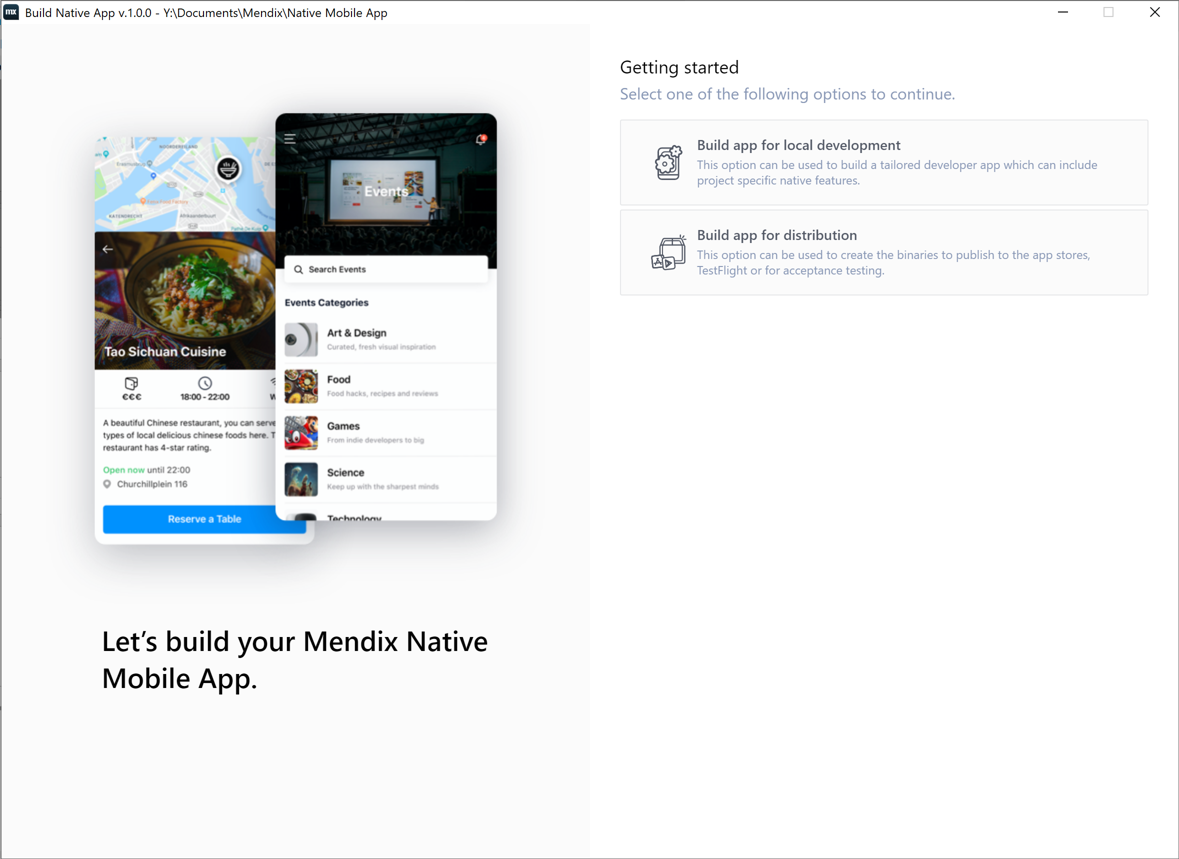
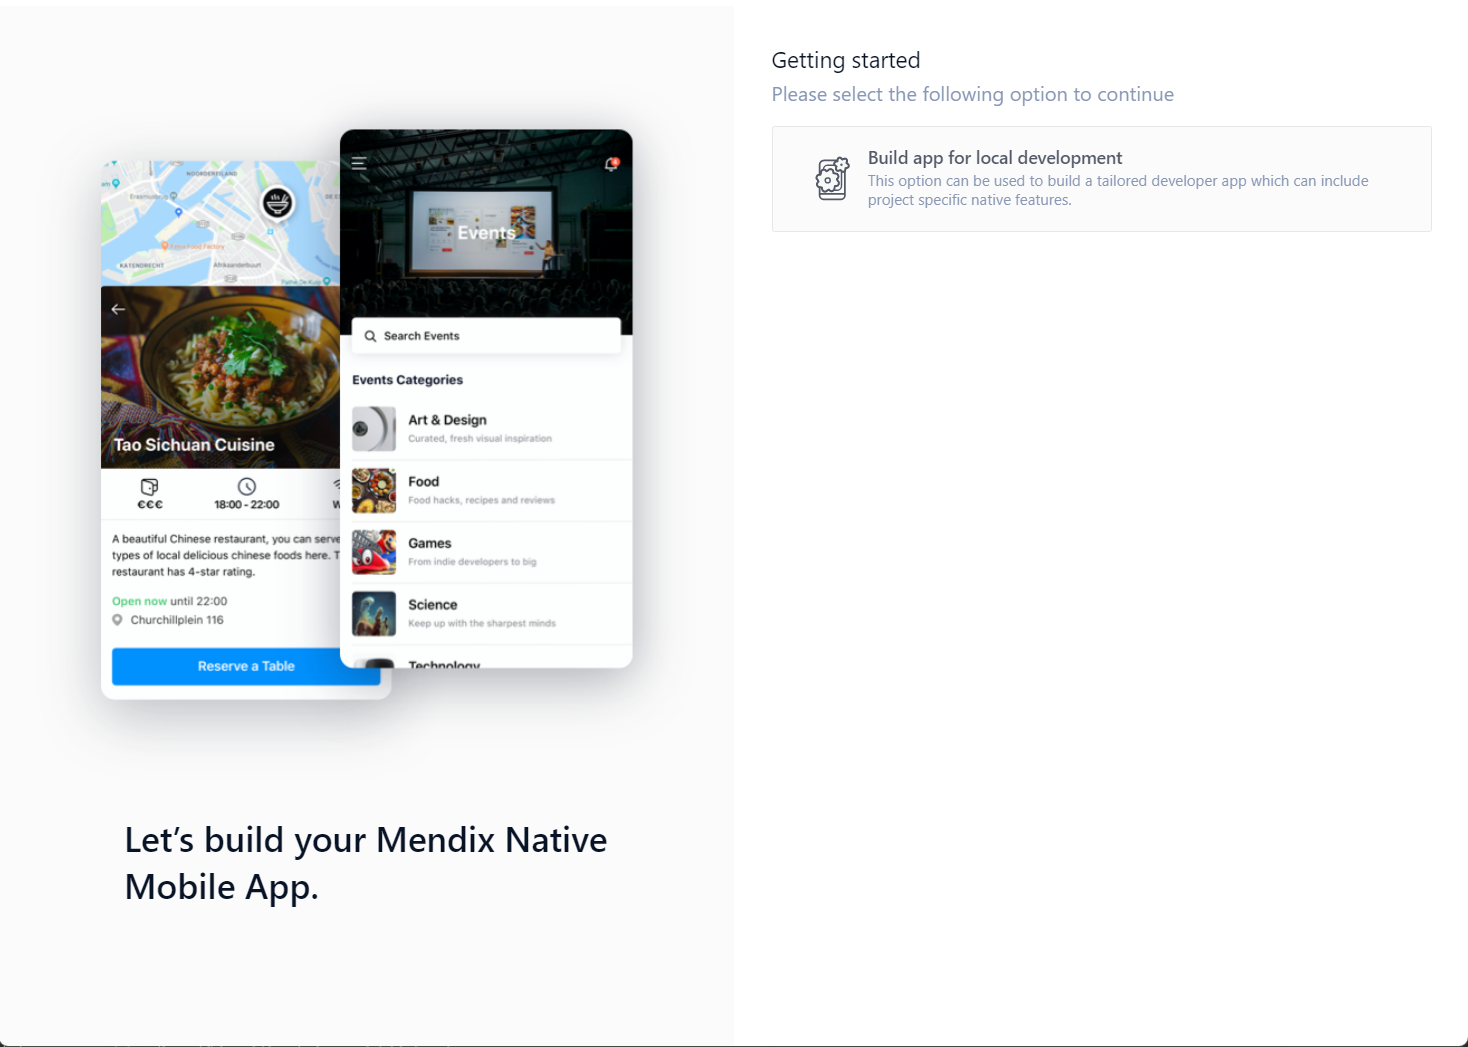
Update docs for building locally and OTA usage

diff --git a/content/en/docs/refguide10/mobile/distributing-mobile-apps/overtheair-updates.md b/content/en/docs/refguide10/mobile/distributing-mobile-apps/overtheair-updates.md
@@ -61,7 +61,7 @@ OTA updates are useful in the following app development cases:
 * Style changes
 * Static image, text, or other static asset changes
 * Layout changes
-* Nanoflow changes
+* Adding/Edditing Nanoflow or Microflow
 * JavaScript action changes
 * Widgets added or removed
 * You added a new custom JavaScript-only widget or module 
@@ -77,7 +77,6 @@ If you have made any changes directly to your iOS or Android app, you will have 
 * You fundamentally changed your app's functionality (this is an Apple App Store limitation, and will require a re-release and re-review of your app by Apple—your app might be removed if you do not comply)
 * A new native module has been added (such as the [Native Mobile AR](https://marketplace.mendix.com/link/component/117209) module — for more information see [Modules](/refguide10/modules/)
 * The app has been renamed
-* You added a new microflow or nanoflow
 * The app's launcher icons have been changed
 * The splash screen has been changed
 * The native template was updated (NT patch updates also require a full release)

diff --git a/content/en/docs/refguide/mobile/distributing-mobile-apps/overtheair-updates.md b/content/en/docs/refguide/mobile/distributing-mobile-apps/overtheair-updates.md
@@ -61,7 +61,7 @@ OTA updates are useful in the following app development cases:
 * Style changes
 * Static image, text, or other static asset changes
 * Layout changes
-* Nanoflow changes
+* Adding/Edditing Nanoflow or Microflow
 * JavaScript action changes
 * Widgets added or removed
 * You added a new custom JavaScript-only widget or module 
@@ -77,7 +77,6 @@ If you have made any changes directly to your iOS or Android app, you will have 
 * You fundamentally changed your app's functionality (this is an Apple App Store limitation, and will require a re-release and re-review of your app by Apple—your app might be removed if you do not comply)
 * A new native module has been added (such as the [Native Mobile AR](https://marketplace.mendix.com/link/component/117209) module — for more information see [Modules](/refguide/modules/)
 * The app has been renamed
-* You added a new microflow or nanoflow
 * The app's launcher icons have been changed
 * The splash screen has been changed
 * The native template was updated (NT patch updates also require a full release)

diff --git a/content/en/docs/refguide9/mobile/distributing-mobile-apps/overtheair-updates.md b/content/en/docs/refguide9/mobile/distributing-mobile-apps/overtheair-updates.md
@@ -61,7 +61,7 @@ OTA updates are useful in the following app development cases:
 * Style changes
 * Static image, text, or other static asset changes
 * Layout changes
-* Nanoflow changes
+* Adding/Edditing Nanoflow or Microflow
 * JavaScript action changes
 * Widgets added or removed
 * You added a new custom JavaScript-only widget or module 
@@ -77,7 +77,6 @@ If you have made any changes directly to your iOS or Android app, you will have 
 * You fundamentally changed your app's functionality (this is an Apple App Store limitation, and will require a re-release and re-review of your app by Apple—your app might be removed if you do not comply)
 * A new native module has been added (such as the [Native Mobile AR](https://marketplace.mendix.com/link/component/117209) module — for more information see [Modules](/refguide9/modules/))
 * The app has been renamed
-* You added a new microflow or nanoflow
 * The app's launcher icons have been changed
 * The splash screen has been changed
 

diff --git a/content/en/docs/refguide10/mobile/distributing-mobile-apps/building-native-apps/native-build-locally.md b/content/en/docs/refguide10/mobile/distributing-mobile-apps/building-native-apps/native-build-locally.md
@@ -40,7 +40,7 @@ To set up your local app, do the following:
 1. When Mendix Native Mobile Builder launches you will see the home screen:
 
     {{< figure src="/attachments/howto10/mobile/native-mobile/distribution/build-native-apps/deploying-native-app/home-screen.png" alt="Mendix Native Mobile Builder Home Screen"   width="350"  class="no-border" >}}
-1. Select **Build app for distribution**.
+1. Select **Build app for local development**.
 1. Fill in your app's name and the app identifier. The wizard provides defaults, but you might want to align the app identifier to use your company's reversed URL, or change the app name in some other way:
 
     {{< figure src="/attachments/howto10/mobile/native-mobile/distribution/build-native-apps/deploying-native-app/wizard-app-details.png" alt="Wizard App Details"   width="350"  class="no-border" >}}

diff --git a/content/en/docs/refguide9/mobile/distributing-mobile-apps/building-native-apps/native-build-locally.md b/content/en/docs/refguide9/mobile/distributing-mobile-apps/building-native-apps/native-build-locally.md
@@ -40,7 +40,7 @@ To set up your local app, do the following:
 1. When Mendix Native Mobile Builder launches you will see the home screen:
 
     {{< figure src="/attachments/howto9/mobile/native-mobile/distribution/build-native-apps/deploying-native-app/home-screen.png" alt="Mendix Native Mobile Builder Home Screen"   width="350"  class="no-border" >}}
-1. Select **Build app for distribution**.
+1. Select **Build app for local development**.
 1. Fill in your app's name and the app identifier. The wizard provides defaults, but you might want to align the app identifier to use your company's reversed URL, or change the app name in some other way:
 
     {{< figure src="/attachments/howto9/mobile/native-mobile/distribution/build-native-apps/deploying-native-app/wizard-app-details.png" alt="Wizard App Details"   width="350"  class="no-border" >}}

diff --git a/content/en/docs/refguide/mobile/distributing-mobile-apps/building-native-apps/native-build-locally.md b/content/en/docs/refguide/mobile/distributing-mobile-apps/building-native-apps/native-build-locally.md
@@ -40,7 +40,7 @@ To set up your local app, do the following:
 1. When Mendix Native Mobile Builder launches you will see the home screen:
 
     {{< figure src="/attachments/howto/mobile/native-mobile/distribution/build-native-apps/deploying-native-app/home-screen.png" alt="Mendix Native Mobile Builder Home Screen"   width="350"  class="no-border" >}}
-1. Select **Build app for distribution**.
+1. Select **Build app for local development**.
 1. Fill in your app's name and the app identifier. The wizard provides defaults, but you might want to align the app identifier to use your company's reversed URL, or change the app name in some other way:
 
     {{< figure src="/attachments/howto/mobile/native-mobile/distribution/build-native-apps/deploying-native-app/wizard-app-details.png" alt="Wizard App Details"   width="350"  class="no-border" >}}
